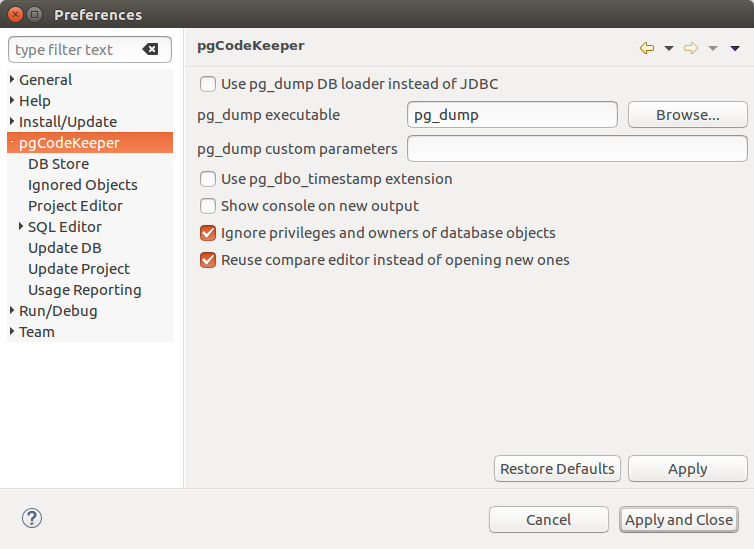
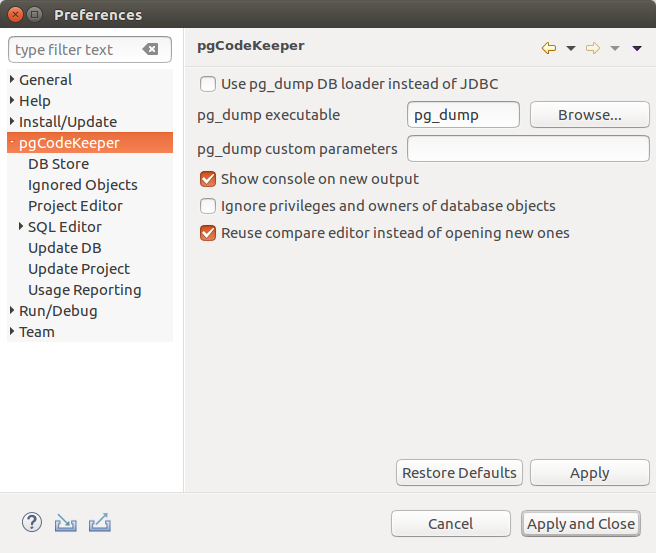
version 5.3.8

diff --git a/docs/conf.py b/docs/conf.py
@@ -53,7 +53,7 @@ copyright = u'2016, pgCodeKeeper'
 # The short X.Y version.
 version = '5.3'
 # The full version, including alpha/beta/rc tags.
-release = '5.3.4'
+release = '5.3.8'
 
 # The language for content autogenerated by Sphinx. Refer to documentation
 # for a list of supported languages.

diff --git a/docs/preferences.rst b/docs/preferences.rst
@@ -10,7 +10,6 @@
 - **Use pg_dump DB loader instead of JDBC / Использовать загрузчик pg_dump** - для загрузки базы данных использовать pg_dump вместо JDBC.
 - **pg_dump executable / Исполняемый файл pg_dump** - путь к утилите pg_dump, либо к другому исполняемому файлу или скрипту, реализующему интерфейс pg_dump.
 - **pg_dump custom parameters / Дополнительные параметры pg_dump** - позволяет задавать дополнительные параметры вызова утилиты pg_dump.
-- **Use pg_dbo_timestamp extension / Использовать расширение pg_dbo_timestamps** - позволяет использовать расширение `pg_dbo_timestamp <https://github.com/pgcodekeeper/pg_dbo_timestamp/>`_. Расширение позволяет ускорить загрузку схем базы данных, а также позволяет отображать в редакторе колонку с пользователем базы данных, совершившем последнее изменение объекта.
 - **Show console on new output / Показывать консоль** - позволяет автоматически показывать консоль программы при выводе в нее.
 - **Ignore privileges and owners of database objects / Не учитывать привилегии и владельцев объектов** - позволяет отключить поиск различий в свойствах объектов, связанных с ролями БД.
 - **Reuse compare editor instead of opening new ones / Использовать открытый редактор сравнения вместо создания новых** - позволяет использовать открытый редактор сравнения при сравнения объектов базы данных (В контекстном меню таблицы различий выбрать пункт **Show Diff / Показать различия**).
